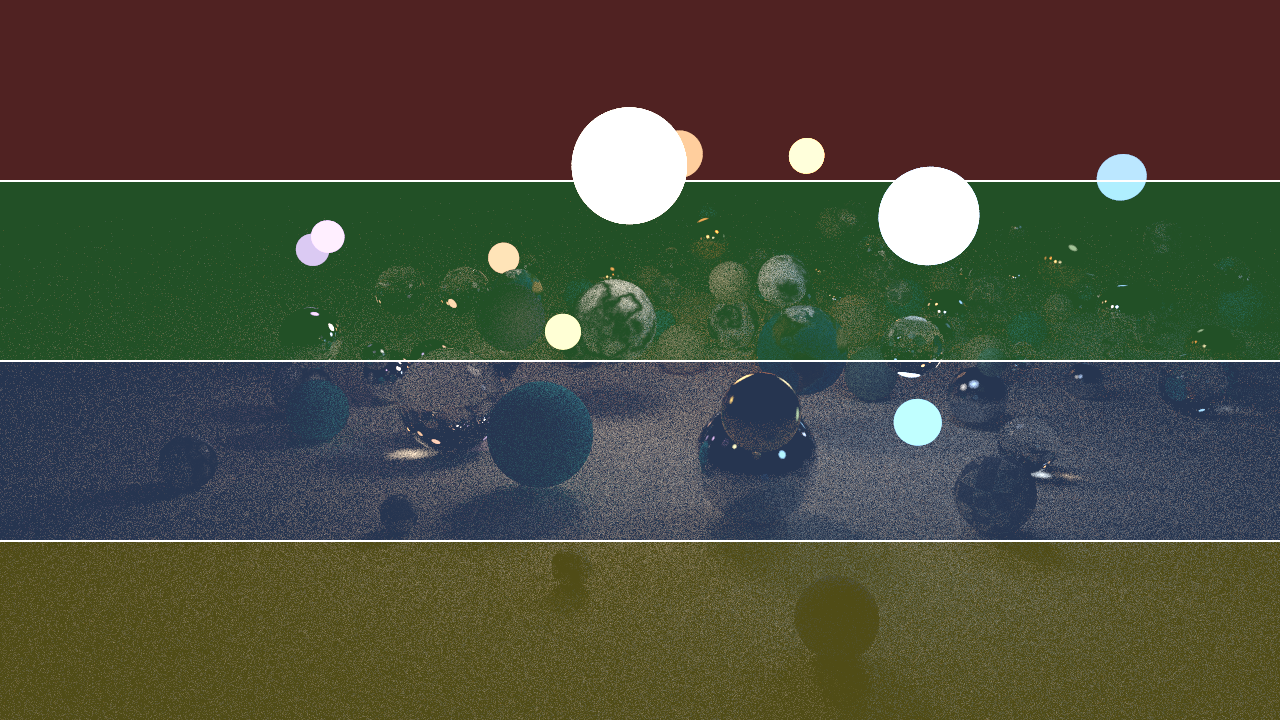
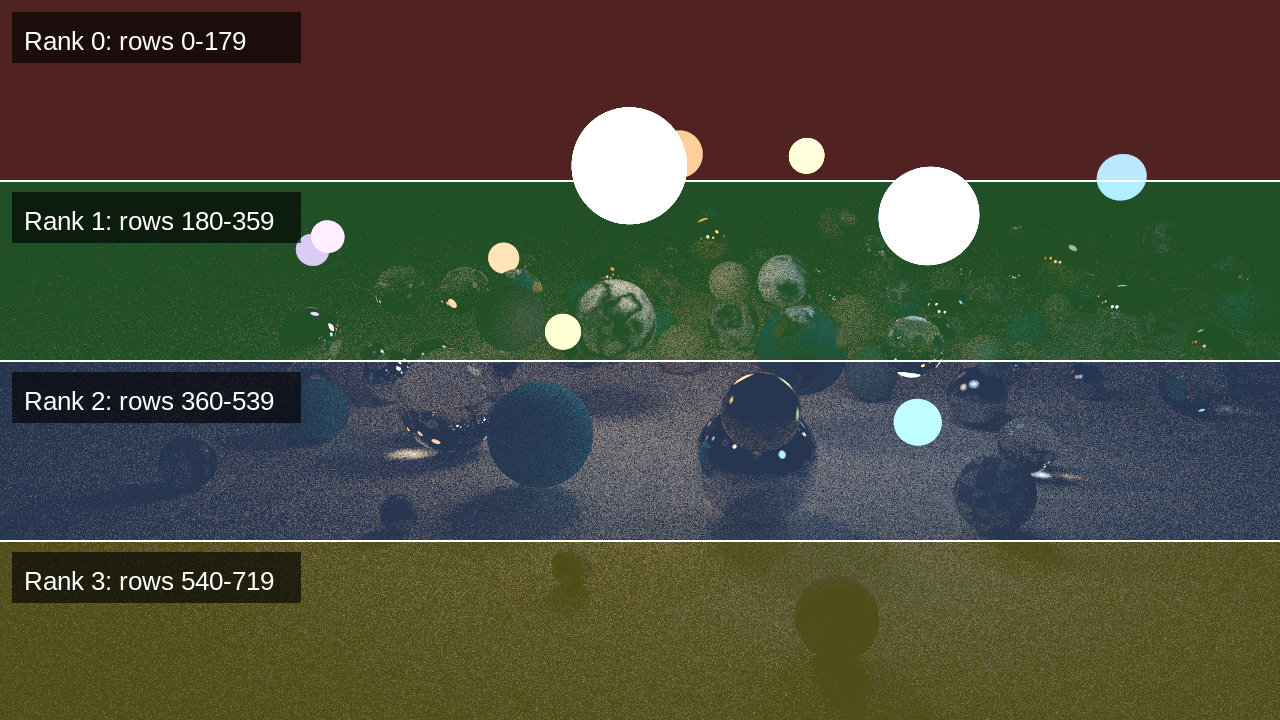
Add README and renders, remove compiled exe

diff --git a/README.md b/README.md
@@ -1,282 +1,114 @@
-<div align="center">
-
-<img src="renders/material_garden.png" alt="Material Garden, rendered by this engine" width="100%">
-
 # Parallel Ray Tracing Engine
 
-**A CPU path tracer in C++20, parallelised four ways — and every one of them produces the exact same image, down to the last byte.**
+![Material Garden](renders/material_garden.png)
 
-![C++20](https://img.shields.io/badge/C%2B%2B-20-00599C?style=for-the-badge&logo=cplusplus&logoColor=white)
-![OpenMP](https://img.shields.io/badge/OpenMP-shared%20memory-5C3EE8?style=for-the-badge)
-![Open MPI](https://img.shields.io/badge/Open%20MPI-distributed%20memory-F28C28?style=for-the-badge)
-![Validated](https://img.shields.io/badge/250%2F250%20runs-byte--identical-2EA44F?style=for-the-badge)
+This is my attempt at parallelising the ray tracer from Peter Shirley's [Ray Tracing in One Weekend](https://raytracing.github.io/) books. I followed the books to build a CPU path tracer in C++20 (spheres, diffuse, metal, glass and light-emitting materials, textures, depth of field and a BVH), then made it run in parallel in three ways: OpenMP threads, MPI processes, and a hybrid of the two.
 
-[Gallery](#-gallery) · [How it's parallelised](#-how-its-parallelised) · [Results](#-results) · [Build & run](#-build--run) · [Showcase renders](#-showcase-renders)
+All versions produce exactly the same image as the serial one, byte for byte. A shared random number generator would make the output depend on which thread got there first, so instead every pixel seeds its own small generator from its position in the image.
 
-</div>
+## Findings
 
----
+I benchmarked two scenes at 1280 × 720 with 128 samples per pixel on a laptop with an Intel i5-10310U (4 cores, 8 threads), running each configuration five times and taking the median.
 
-## ✨ At a glance
+| 4 workers | Scene A (image above) | Scene B (sphereflake) |
+|---|---:|---:|
+| Serial | 63.76 s | 182.11 s |
+| OpenMP, 4 threads | 36.15 s (1.76×) | 99.78 s (1.82×) |
+| MPI, 4 processes | 46.63 s (1.37×) | 117.31 s (1.55×) |
+| MPI + OpenMP, 2 × 2 | 39.84 s (1.60×) | 99.08 s (1.84×) |
+
+On one machine, threads beat processes. At 4 and 8 workers OpenMP was well ahead of pure MPI, and the fastest hybrid layouts used few processes with many threads: 1 × 8 for scene A (28.22 s) and 2 × 4 for scene B (73.66 s).
+
+The biggest problem was uneven work, not communication. A ray that hits the empty sky stops straight away, while one that bounces between glass and metal keeps going, so some rows of the image cost far more than others. Giving each worker a fixed block of rows leaves some of them idle while the rest finish. Switching OpenMP from static to dynamic scheduling fixed most of this and cut the 4-thread time on scene A by 24.8%. MPI still splits the image into fixed blocks: in one run with 4 processes, the process with the mostly empty top rows finished in 1.6 s and the one with the middle of the scene took 16.1 s.
+
+<p>
+<img src="renders/rank_partition.png" alt="Rows of the image given to each of 4 MPI processes" width="49%">
+<img src="renders/cost_heatmap.png" alt="Rays traced per pixel" width="49%">
+</p>
+
+Left: the rows each of 4 MPI processes renders. Right: how many rays each pixel needs. The sky costs one ray per sample; the glass and metal spheres cost four or more.
+
+## Gallery
+
+All of these were rendered with this engine. It only supports spheres, so the floors and walls are just very large spheres.
 
 <table>
 <tr>
-<td align="center"><h3>117,964,800</h3>camera rays per benchmark image</td>
-<td align="center"><h3>7,384</h3>spheres in the sphereflake scene</td>
-<td align="center"><h3>4</h3>execution modes from one code base</td>
-<td align="center"><h3>250</h3>timed runs, all byte-identical</td>
+<td width="50%"><img src="renders/metallic_sphereflake.png" alt="Metallic sphereflake"><br>Metallic sphereflake: 7,381 metal spheres, each sprouting nine smaller ones. This was the second benchmark scene.</td>
+<td width="50%"><img src="renders/golden_spiral.png" alt="Golden spiral sunflower"><br>Sunflower: 900 seeds placed at the golden angle, with petals made from rows of spheres.</td>
+</tr>
+<tr>
+<td><img src="renders/glowing_marbles.png" alt="Glowing marbles"><br>Glass marbles with glowing cores on a mirror floor, with depth of field.</td>
+<td><img src="renders/pastel_room.png" alt="Pastel room"><br>Chrome, matte and glowing spheres in a softly lit room.</td>
+</tr>
+<tr>
+<td><img src="renders/colour_bleeding.png" alt="Colour bleeding"><br>Colour bleeding: the white spheres pick up red and green from light bouncing off the walls.</td>
+<td><img src="renders/mirror_corridor.png" alt="Mirror corridor"><br>Two facing mirrors. Each copy is one more bounce, and the black end is where the bounce limit runs out.</td>
+</tr>
+<tr>
+<td><img src="renders/ringed_planet.png" alt="Ringed planet"><br>The Earth texture with a ring of about 20,000 small spheres.</td>
+<td><img src="renders/galaxy.png" alt="Spiral galaxy"><br>A spiral galaxy made of about 30,000 tiny glowing spheres.</td>
+</tr>
+<tr>
+<td><img src="renders/chrome_ocean.png" alt="Chrome ocean"><br>10,000 mirror spheres arranged in waves at sunset.</td>
+<td><img src="renders/rgb_light_mixing.png" alt="RGB light mixing"><br>Red, green and blue lights. Each shadow takes the colour of the lights that still reach it.</td>
+</tr>
+<tr>
+<td><img src="renders/refraction_sweep.png" alt="Refraction"><br>The same glass sphere with refractive index 1.00, 1.33, 1.50, 1.90 and 2.42.</td>
+<td><img src="renders/fuzz_sweep.png" alt="Metal fuzz"><br>Metal going from a perfect mirror to a rough surface.</td>
 </tr>
 </table>
 
-Built by following Peter Shirley's [*Ray Tracing in One Weekend*](https://raytracing.github.io/) series, then taken further: the same renderer runs **serially**, with **OpenMP** threads, with **MPI** processes, and as an **MPI + OpenMP hybrid**, and we measured how each one scales.
+## Running it
 
-**Features:** diffuse, metal (with fuzz), glass (refraction, total internal reflection, Schlick reflectance) and light-emitting materials · checker, Perlin-marble and image textures · depth of field · bounding volume hierarchy · deterministic per-pixel random numbers.
-
----
-
-## 🖼 Gallery
-
-<table>
-<tr>
-<td width="50%"><img src="renders/material_garden.png" alt="Material Garden"><br><sub><b>Material Garden</b> (benchmark scene A) — 106 spheres, every material type, lit only by glowing spheres.</sub></td>
-<td width="50%"><img src="renders/metallic_sphereflake.png" alt="Metallic Sphereflake"><br><sub><b>Metallic Sphereflake</b> (benchmark scene B) — 7,381 recursively placed metal spheres; each sphere sprouts nine smaller ones.</sub></td>
-</tr>
-<tr>
-<td><img src="renders/sphereflake_rainbow_L3.png" alt="Rainbow sphereflake"><br><sub><b>Rainbow sphereflake</b> — three levels of recursion (820 spheres), a different metal colour at each level, on a checkered floor. 4K.</sub></td>
-<td><img src="renders/golden_spiral.png" alt="Golden spiral sunflower"><br><sub><b>Golden-spiral sunflower</b> — 900 seeds placed at the golden angle (137.5°) and 26 petals built from rows of spheres.</sub></td>
-</tr>
-<tr>
-<td><img src="renders/glowing_marbles.png" alt="Glowing marbles"><br><sub><b>Glowing marbles</b> — glass marbles with glowing cores on a mirror floor; the glass bends and magnifies each core, and depth of field blurs the back.</sub></td>
-<td><img src="renders/pastel_room.png" alt="Pastel room"><br><sub><b>Pastel room</b> — chrome, matte and softly glowing spheres; the glowing spheres tint the walls around them.</sub></td>
-</tr>
-<tr>
-<td><img src="renders/colour_bleeding.png" alt="Colour bleeding"><br><sub><b>Colour bleeding</b> — the white spheres turn red and green from light bouncing off the walls. The "walls" are spheres of radius 1000.</sub></td>
-<td><img src="renders/mirror_corridor.png" alt="Mirror corridor"><br><sub><b>Mirror corridor</b> — two parallel mirrors; every copy is one more bounce, until the bounce limit turns the end of the tunnel black.</sub></td>
-</tr>
-</table>
-
-<details>
-<summary><b>More renders (click to expand)</b></summary>
-<br>
-<table>
-<tr>
-<td width="50%"><img src="renders/ringed_planet.png" alt="Ringed planet"><br><sub><b>Ringed planet</b> — the Earth texture, a ring of about 20,000 icy spheres and a marble moon, lit by one star.</sub></td>
-<td width="50%"><img src="renders/snow_globe.png" alt="Snow globe"><br><sub><b>Snow globe</b> — about 600 coloured spheres inside a water-filled globe (index 1.33), bent and magnified by the water.</sub></td>
-</tr>
-<tr>
-<td><img src="renders/galaxy.png" alt="Galaxy"><br><sub><b>Spiral galaxy</b> — about 30,000 tiny glowing spheres in a warm core and two blue-white arms.</sub></td>
-<td><img src="renders/chrome_ocean.png" alt="Chrome ocean"><br><sub><b>Chrome ocean</b> — 10,000 mirror spheres on two overlapping waves at sunset, each reflecting its neighbours.</sub></td>
-</tr>
-<tr>
-<td><img src="renders/rgb_light_mixing.png" alt="RGB light mixing"><br><sub><b>Light mixing</b> — red, green and blue lights; each shadow is the colour of the lights that still reach it.</sub></td>
-<td><img src="renders/refraction_sweep.png" alt="Refraction sweep"><br><sub><b>Refraction</b> — the same glass sphere with index 1.00 (invisible), 1.33 (water), 1.50 (glass), 1.90 and 2.42 (diamond).</sub></td>
-</tr>
-<tr>
-<td><img src="renders/fuzz_sweep.png" alt="Fuzz sweep"><br><sub><b>Metal fuzz</b> — from a perfect mirror (0) to rough metal (1.0).</sub></td>
-<td><img src="renders/bounce_depth_sequence.png" alt="Bounce depth"><br><sub><b>Bounce by bounce</b> — the same scene with a limit of 1, 2, 3, 5, 10 and 30 bounces.</sub></td>
-</tr>
-<tr>
-<td colspan="2"><img src="renders/spp_sequence.png" alt="Samples per pixel"><br><sub><b>Samples per pixel</b> — scene A at 1, 4, 16, 64, 256 and 1,024 samples per pixel. Each step is four times the work and roughly halves the noise.</sub></td>
-</tr>
-</table>
-</details>
-
-> [!NOTE]
-> The engine knows only one shape: the sphere. Floors, walls and ceilings are spheres so large that they are flat to within a fraction of a pixel.
-
----
-
-## 🧠 How it's parallelised
-
-Every pixel's colour depends only on the scene and its own rays, so pixels can be computed in any order, by any worker. The unit of work is **one row of pixels**.
-
-```mermaid
-flowchart TB
-    S["Scene built in code<br/>(identical on every rank)"] --> SPLIT{{"Split rows into blocks<br/>base = H / P, first H mod P ranks get +1"}}
-    SPLIT --> R0["Rank 0<br/>rows 0–179"]
-    SPLIT --> R1["Rank 1<br/>rows 180–359"]
-    SPLIT --> R2["Rank 2<br/>rows 360–539"]
-    SPLIT --> R3["Rank 3<br/>rows 540–719"]
-    R0 --> T0["OpenMP threads share<br/>the rank's rows"]
-    R1 --> T1["OpenMP threads share<br/>the rank's rows"]
-    R2 --> T2["OpenMP threads share<br/>the rank's rows"]
-    R3 --> T3["OpenMP threads share<br/>the rank's rows"]
-    T0 & T1 & T2 & T3 --> G["MPI_Gatherv<br/>(custom MPI datatype for a pixel)"]
-    G --> OUT["Rank 0 writes the image<br/>SHA-256 checked against the serial render"]
-```
-
-| Mode | What runs in parallel | Key code |
-|---|---|---|
-| **Serial** | nothing — the baseline for speed *and* correctness | `renderRowsInitialized()` |
-| **OpenMP** | threads share the row loop of one process | `#pragma omp parallel for schedule(runtime)` |
-| **MPI** | separate processes each render a block of rows | row split + `MPI_Gatherv` + `MPI_Reduce(MPI_MAX)` |
-| **Hybrid** | MPI splits rows across ranks, OpenMP threads inside each | `MPI_Init_thread(MPI_THREAD_FUNNELED)` |
-
-> [!IMPORTANT]
-> **Same image, every time.** A shared random number generator would make each pixel depend on thread timing. Instead every pixel seeds its own tiny SplitMix64-style generator from its position in the image, so a pixel gets the same random numbers whichever thread or rank renders it. Every benchmark run's SHA-256 hash was checked against the serial render, and all 250 matched.
-
----
-
-## 📊 Results
-
-Measured on a laptop with an Intel Core i5-10310U (4 cores, 8 hardware threads), 1280 × 720, 128 samples per pixel, up to 30 bounces, five runs per configuration (median shown).
-
-<div align="center">
-<img src="renders/chart_primary.png" alt="Primary comparison" width="85%">
-</div>
-
-| Four workers each | Scene A | Speedup | Scene B | Speedup |
-|---|---:|---:|---:|---:|
-| Serial | 63.76 s | 1.00× | 182.11 s | 1.00× |
-| OpenMP, 4 threads | 36.15 s | **1.76×** | 99.78 s | 1.82× |
-| MPI, 4 ranks | 46.63 s | 1.37× | 117.31 s | 1.55× |
-| Hybrid, 2 × 2 | 39.84 s | 1.60× | 99.08 s | **1.84×** |
-
-$$S(p)=\frac{T(1)}{T(p)} \qquad E(p)=\frac{S(p)}{p}$$
-
-<details>
-<summary><b>Scaling, hybrid layouts and scheduling (click to expand)</b></summary>
-
-<br>
-
-<img src="renders/chart_scaling.png" alt="Strong scaling" width="85%">
-
-<img src="renders/chart_hybrid.png" alt="Hybrid layouts" width="85%">
-
-<img src="renders/chart_sched.png" alt="OpenMP scheduling" width="85%">
-
-- **Few ranks, many threads wins.** With 8 workers, 1 × 8 (Scene A, 28.22 s) and 2 × 4 (Scene B, 73.66 s) were fastest; pure MPI (8 × 1) was slowest.
-- **Scheduling matters.** Switching OpenMP from `static` to `dynamic,1` cut the four-thread render time by 24.8% on Scene A.
-
-</details>
-
-### The big lesson: not all rows are equal
-
-<div align="center">
-<img src="renders/cost_heatmap.png" alt="Rays traced per pixel" width="85%">
-</div>
-
-<div align="center">
-<img src="renders/rank_partition.png" alt="Rows given to each of four MPI ranks" width="70%">
-</div>
-
-With four MPI ranks, every rank gets 180 rows, but not the same work: in a separate diagnostic run at 64 samples per pixel, rank 0 (mostly black sky) finished in **1.6 s** while rank 2 (the middle of the scene) took **16.1 s**.
-
-Rays that hit empty sky stop after one test; rays that bounce between glass, metal and the floor can take dozens. Giving each worker a fixed block of rows therefore leaves some workers idle while others still have expensive rows to finish. Dynamic scheduling fixes this within a process; balancing rows *across* MPI ranks is the natural next step.
-
----
-
-## 🔨 Build & run
-
-The parallel engine lives on the `parallel_rte` branch; the `benchmark` branch has the same engine plus the size/quality options, benchmark scripts and showcase programs, so start there:
+The parallel code is on the `benchmark` branch. You need GCC with C++20 support, OpenMP and Open MPI. ImageMagick is only needed to turn the output into a PNG.
 
 ```bash
+sudo apt install build-essential openmpi-bin libopenmpi-dev imagemagick
 git clone https://github.com/SyedOkashaShoaib/Ray-Tracing-Engine.git
 cd Ray-Tracing-Engine
 git checkout benchmark
 ```
 
-**Requirements:** GCC with C++20, OpenMP, and Open MPI (`sudo apt install build-essential openmpi-bin libopenmpi-dev`). Run from the repository root: Scene A loads its Earth texture by a relative path.
+Run everything from the repository root, because scene A loads its Earth texture by a relative path. `BENCHMARK_A` or `BENCHMARK_B` picks the scene, and `RT_IMAGE_PATH` sets the output file.
 
-<details open>
-<summary><b>OpenMP (fastest on one machine)</b></summary>
+OpenMP:
 
 ```bash
 g++ -std=c++20 -O3 -fopenmp -I src -DRT_USE_OPENMP -DBENCHMARK_A src/main.cpp -o render_A
 OMP_NUM_THREADS=8 OMP_SCHEDULE=dynamic,1 RT_IMAGE_PATH=scene_A.ppm ./render_A
+convert scene_A.ppm scene_A.png
 ```
-</details>
 
-<details>
-<summary><b>MPI and hybrid</b></summary>
+MPI, and MPI with OpenMP:
 
 ```bash
-# MPI: 4 processes
 mpic++ -std=c++20 -O3 -I src -DRT_USE_MPI -DBENCHMARK_A src/main.cpp -o render_A_mpi
 RT_IMAGE_PATH=scene_A.ppm mpirun -np 4 ./render_A_mpi
 
-# Hybrid: 2 processes × 4 threads
 mpic++ -std=c++20 -O3 -fopenmp -I src -DRT_USE_MPI -DRT_USE_OPENMP -DBENCHMARK_A src/main.cpp -o render_A_hybrid
 OMP_NUM_THREADS=4 RT_IMAGE_PATH=scene_A.ppm mpirun -np 2 ./render_A_hybrid
 ```
-</details>
 
-<details>
-<summary><b>Choosing size and quality</b></summary>
+The default is 1280 pixels wide at 128 samples per pixel. For a bigger, cleaner image, add for example `-DRT_BENCH_WIDTH=1920 -DRT_BENCH_SPP=1024` when compiling. Doubling the samples roughly doubles the render time.
 
-| Macro / variable | Meaning | Default |
-|---|---|---|
-| `BENCHMARK_A` / `BENCHMARK_B` | scene to render | — |
-| `RT_BENCH_WIDTH` | image width (height follows at 16:9) | 1280 |
-| `RT_BENCH_SPP` | samples per pixel | 128 |
-| `RT_IMAGE_PATH` | output file (PPM) | standard output |
-
-```bash
-g++ -std=c++20 -O3 -fopenmp -I src -DRT_USE_OPENMP -DBENCHMARK_B \
-    -DRT_BENCH_WIDTH=1920 -DRT_BENCH_SPP=1024 src/main.cpp -o render_B
-RT_IMAGE_PATH=scene_B.ppm OMP_NUM_THREADS=8 OMP_SCHEDULE=dynamic,1 ./render_B
-convert scene_B.ppm scene_B.png     # ImageMagick
-```
-</details>
-
-> [!TIP]
-> To render every showcase scene in one go (with cool-down pauses for the CPU), run `bash showcase/render_overnight.sh`.
-
-> [!TIP]
-> Noise falls with the square root of the sample count: 4× the samples halves the noise. Preview at 64 samples per pixel, then render the final image at 512–1024.
-
----
-
-## 🌈 Showcase renders
-
-The [`showcase/`](https://github.com/SyedOkashaShoaib/Ray-Tracing-Engine/tree/benchmark/showcase) folder on the `benchmark` branch holds 18 extra programs, each demonstrating one idea. They reuse the engine unchanged; run them from the repository root. Each `render.sh` lists its settings at the top.
-
-| | Concept | Command |
-|---|---|---|
-| 01 | Bounce depth | `bash showcase/01_bounce_depth/render.sh` |
-| 02 | Samples per pixel and noise | `bash showcase/02_spp_convergence/render.sh` |
-| 03 | Which MPI rank rendered which rows | `bash showcase/03_rank_partition/render.sh` |
-| 04 | Cost heatmap and load imbalance | `bash showcase/04_cost_heatmap/render.sh` |
-| 05 | Refraction index sweep | `bash showcase/05_refraction_sweep/render.sh` |
-| 06 | Metal fuzz sweep | `bash showcase/06_fuzz_sweep/render.sh` |
-| 07 | Mirror corridor | `bash showcase/07_mirror_corridor/render.sh` |
-| 08 | Colour bleeding | `bash showcase/08_colour_bleeding/render.sh` |
-| 09 | Coloured light mixing | `bash showcase/09_rgb_light_mixing/render.sh` |
-| 10 | Spiral galaxy | `bash showcase/10_galaxy/render.sh` |
-| 11 | Chrome sphere ocean | `bash showcase/11_chrome_ocean/render.sh` |
-| 12 | Ringed planet | `bash showcase/12_ringed_planet/render.sh` |
-| 13 | Golden-spiral sunflower | `bash showcase/13_golden_spiral/render.sh` |
-| 14 | Glowing marbles | `bash showcase/14_glowing_marbles/render.sh` |
-| 15 | Snow globe | `bash showcase/15_snow_globe/render.sh` |
-| 16 | DNA helix | `bash showcase/16_dna_helix/render.sh` |
-| 17 | Apollonian sphere packing | `bash showcase/17_apollonian_packing/render.sh` |
-| 18 | Pastel room | `bash showcase/18_pastel_room/render.sh` |
-
----
-
-## 🗂 Repository layout
+## Repository layout
 
 | Branch | Contents |
 |---|---|
-| `master` | the serial engine, this README and the rendered images in [`renders/`](renders/) |
-| `parallel_rte` | the parallel engine (OpenMP, MPI, hybrid) only |
-| `benchmark` | the parallel engine plus timing, benchmark scripts and the [`showcase/`](https://github.com/SyedOkashaShoaib/Ray-Tracing-Engine/tree/benchmark/showcase) programs |
+| `master` | the serial engine, this README and the images in `renders/` |
+| `parallel_rte` | the parallel engine (OpenMP, MPI and hybrid) on its own |
+| `benchmark` | the parallel engine plus timing, benchmark scripts and the gallery scenes |
 
 ```text
-src/            the engine: camera, materials, textures, BVH, scenes
-scripts/        benchmark runner and experiment drivers   (benchmark branch)
-showcase/       the 18 showcase programs                   (benchmark branch)
-renders/        renders and charts used in this README     (master)
+src/        the engine: camera, materials, textures, BVH and scenes
+scripts/    benchmark runner and experiment scripts      (benchmark branch)
+showcase/   the programs that render the gallery images  (benchmark branch)
+renders/    images used in this README                   (master)
 ```
 
----
+## What's next
 
-<div align="center">
+I intend to keep expanding this project and turn it into a proper ray tracing engine, going beyond the spheres-only renderer from the books.
 
-**Parallel and Distributed Computing · Fall 2026 · FAST-NUCES Karachi**
-
-Kumail Ali (23K-0791) · Syed Okasha (23K-0850) · Arsh Omar Mufti (23K-0648)
-
-<sub>Built on Peter Shirley's <i>Ray Tracing in One Weekend</i> series · images via <a href="https://github.com/nothings/stb">stb_image</a></sub>
-
-</div>
+Based on Peter Shirley's *Ray Tracing in One Weekend* series. Image loading uses [stb_image](https://github.com/nothings/stb).
